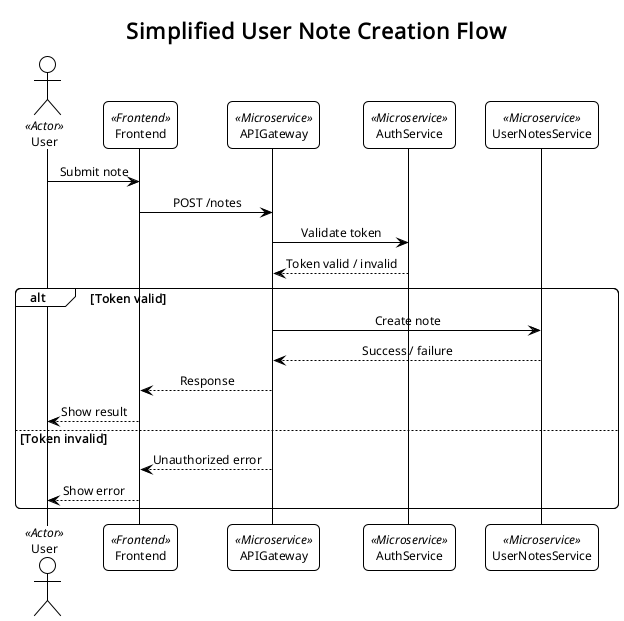
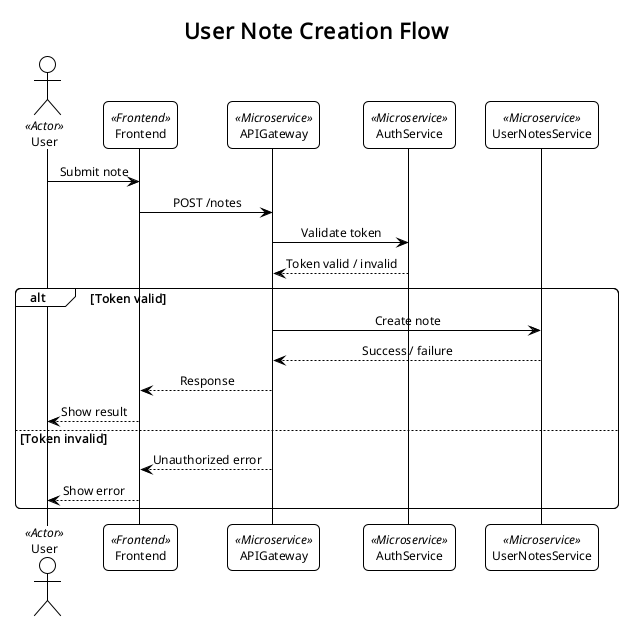
fix: Update diagram generation script to output JPG format and improve logging
- Changed output format from PNG to JPG in the diagram generation script.
- Enhanced logging to display the command being executed for better debugging.
- Updated title in the user note creation diagram for clarity.

Changed region(s): [[0.1827, 0.0306, 0.8221, 0.0612]]

diff --git a/generate_puml_diagrams.py b/generate_puml_diagrams.py
@@ -12,7 +12,8 @@ for dirpath, dirnames, filenames in os.walk(root_dir):
             puml_path = os.path.join(dirpath, filename)
             print(f"Generating diagram for {puml_path}")
             try:
-                # run plantuml to generate a png diagram from the .puml file
+                # run plantuml to generate a jpg diagram from the .puml file
+                print(f"Executing command: {' '.join(['plantuml', '-tpng', puml_path])}")
                 subprocess.run(['plantuml', '-tpng', puml_path], check=True)
             except subprocess.CalledProcessError as e:
                 # print an error message if diagram generation fails
